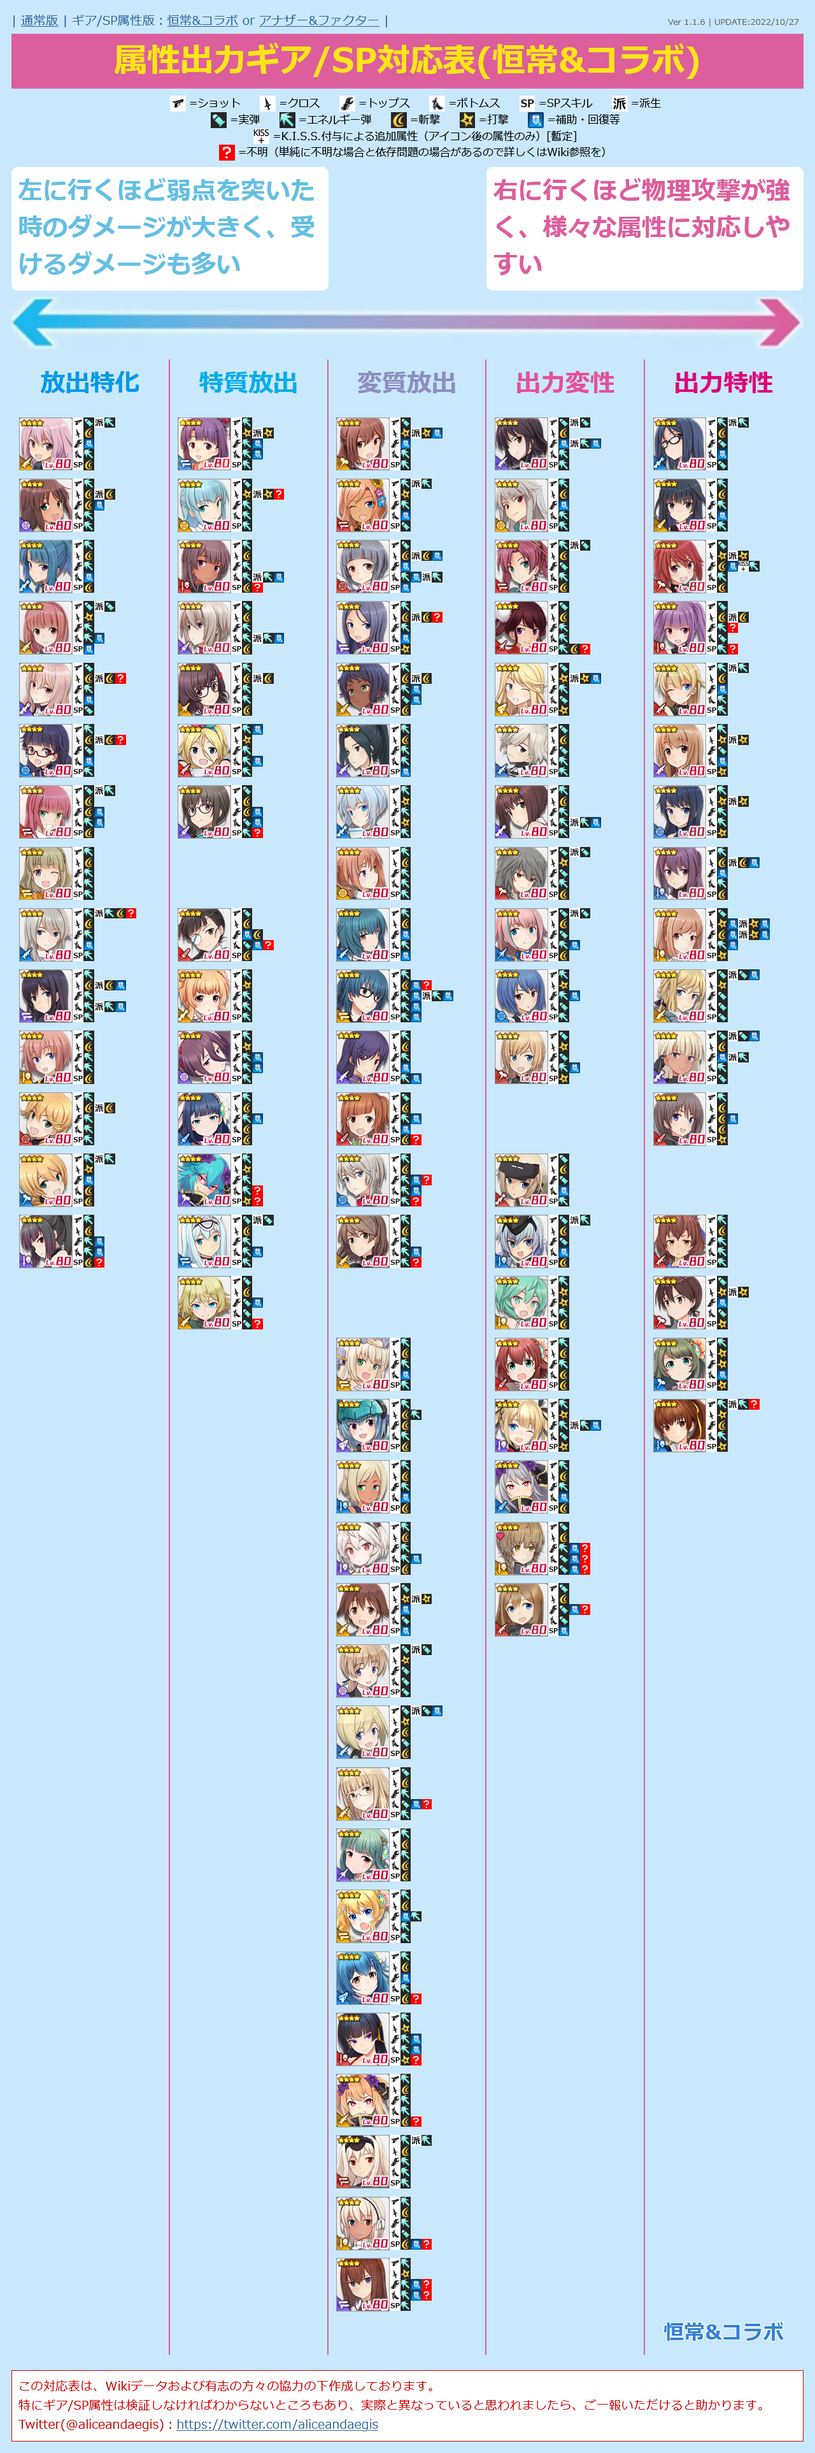
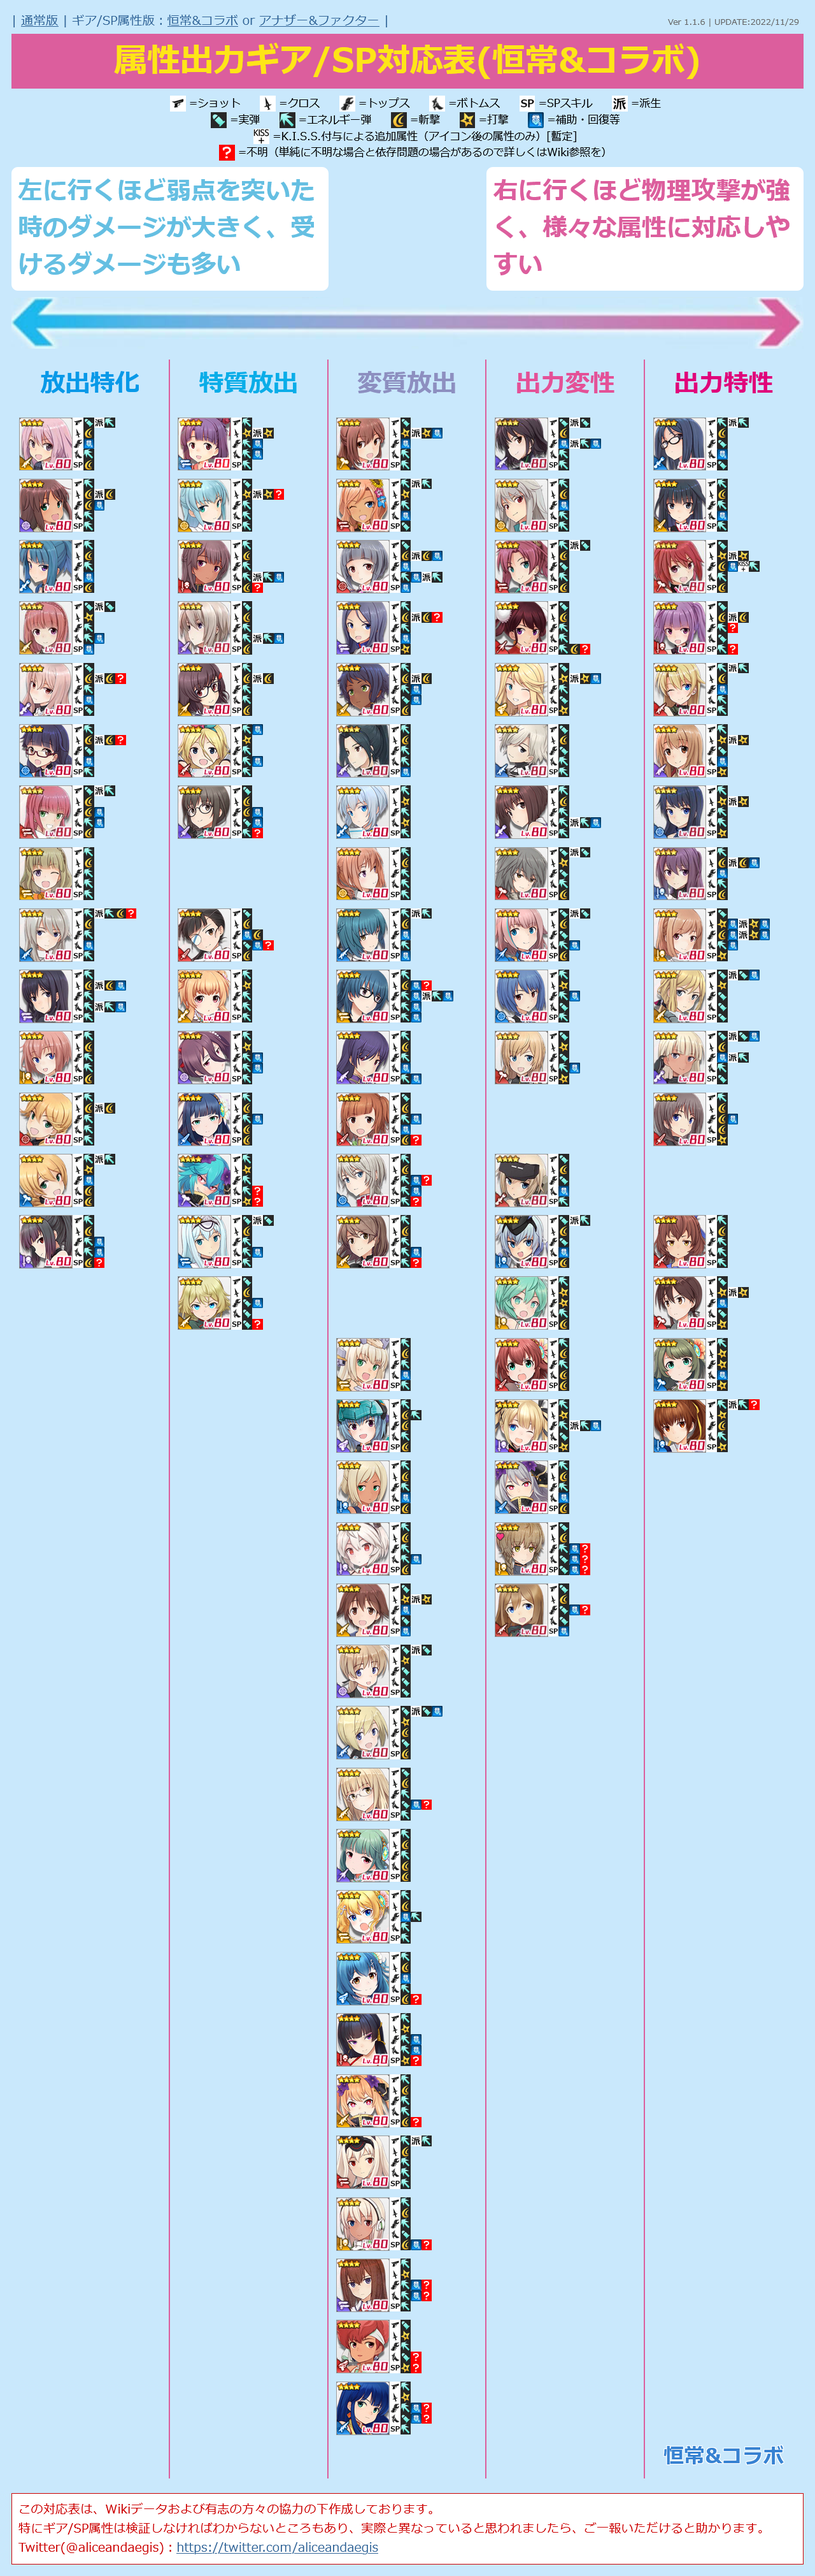
UPDATE charadata
・コラボキャラ　ケイを追加
・コラボキャラ　ユリを追加

Changed region(s): [[0.0, 0.0, 1.0, 0.9977], [0.0312, 0.0, 0.0625, 0.0312]]

diff --git a/alice.html b/alice.html
@@ -12,7 +12,7 @@
   <script>
 
 /* 更新情報 必要に応じて書き換えてください */
-  var version = "Ver 1.1.6 | UPDATE:2022/11/10";
+  var version = "Ver 1.1.6 | UPDATE:2022/11/29";
 
 
 /*
@@ -21,7 +21,7 @@
 
   { ... },
   でキャラデータがワンセット。各項目は下記の通り。
-  id       = 番号(101～FAGコラボ、201～SOL/DTAコラボ、301～ｽﾄﾗｲｸｳｨｯﾁｰｽﾞ、401～ﾊﾞﾄﾙｶﾞｰﾙﾊｲｽｸｰﾙ、501～ﾃﾞｯﾄﾞｵｱｱﾗｲﾌﾞ、601～東京ﾄﾞｰﾙｽﾞ、701～ﾀﾞﾗｲｱｽ、801～ｼｭﾀｲﾝｽﾞ･ｹﾞｰﾄ、811～幼女戦記)
+  id       = 番号(101～FAGコラボ、201～SOL/DTAコラボ、301～ｽﾄﾗｲｸｳｨｯﾁｰｽﾞ、401～ﾊﾞﾄﾙｶﾞｰﾙﾊｲｽｸｰﾙ、501～ﾃﾞｯﾄﾞｵｱｱﾗｲﾌﾞ、601～東京ﾄﾞｰﾙｽﾞ、701～ﾀﾞﾗｲｱｽ、801～ｼｭﾀｲﾝｽﾞ･ｹﾞｰﾄ、811～幼女戦記、821～ﾀﾞｰﾃｨﾍﾟｱ)
   type     = 1=放出特化、2=特質放出、3=変質放出、4=出力変性、5=出力特性
   src      = 画像ファイル名
   name     = キャラクター名
@@ -2179,6 +2179,35 @@
       "sp": "5",
       "attr": "3",
       "link": "https://wikiwiki.jp/alicegear/%E3%83%B4%E3%82%A3%E3%82%AF%E3%83%88%E3%83%BC%E3%83%AA%E3%83%A4%E3%83%BB%E3%82%A4%E3%83%B4%E3%82%A1%E3%83%BC%E3%83%8E%E3%83%B4%E3%83%8A%E3%83%BB%E3%82%BB%E3%83%AC%E3%83%96%E3%83%AA%E3%83%A3%E3%82%B3%E3%83%BC%E3%83%95",
+      "category": "99"
+    },
+
+    {
+      "id": "821",
+      "type": "3",
+      "src": "normal-kei.png",
+      "name": "ケイ",
+      "equip1": "1",
+      "equip2": "4",
+      "equip3": "2",
+      "equip4": "1?",
+      "sp": "4?",
+      "attr": "3",
+      "link": "https://wikiwiki.jp/alicegear/%E3%82%B1%E3%82%A4",
+      "category": "99"
+    },
+    {
+      "id": "822",
+      "type": "3",
+      "src": "normal-yuri.png",
+      "name": "ユリ",
+      "equip1": "2",
+      "equip2": "4",
+      "equip3": "25?",
+      "equip4": "15?",
+      "sp": "2",
+      "attr": "4",
+      "link": "https://wikiwiki.jp/alicegear/%E3%83%A6%E3%83%AA",
       "category": "99"
     },
 
